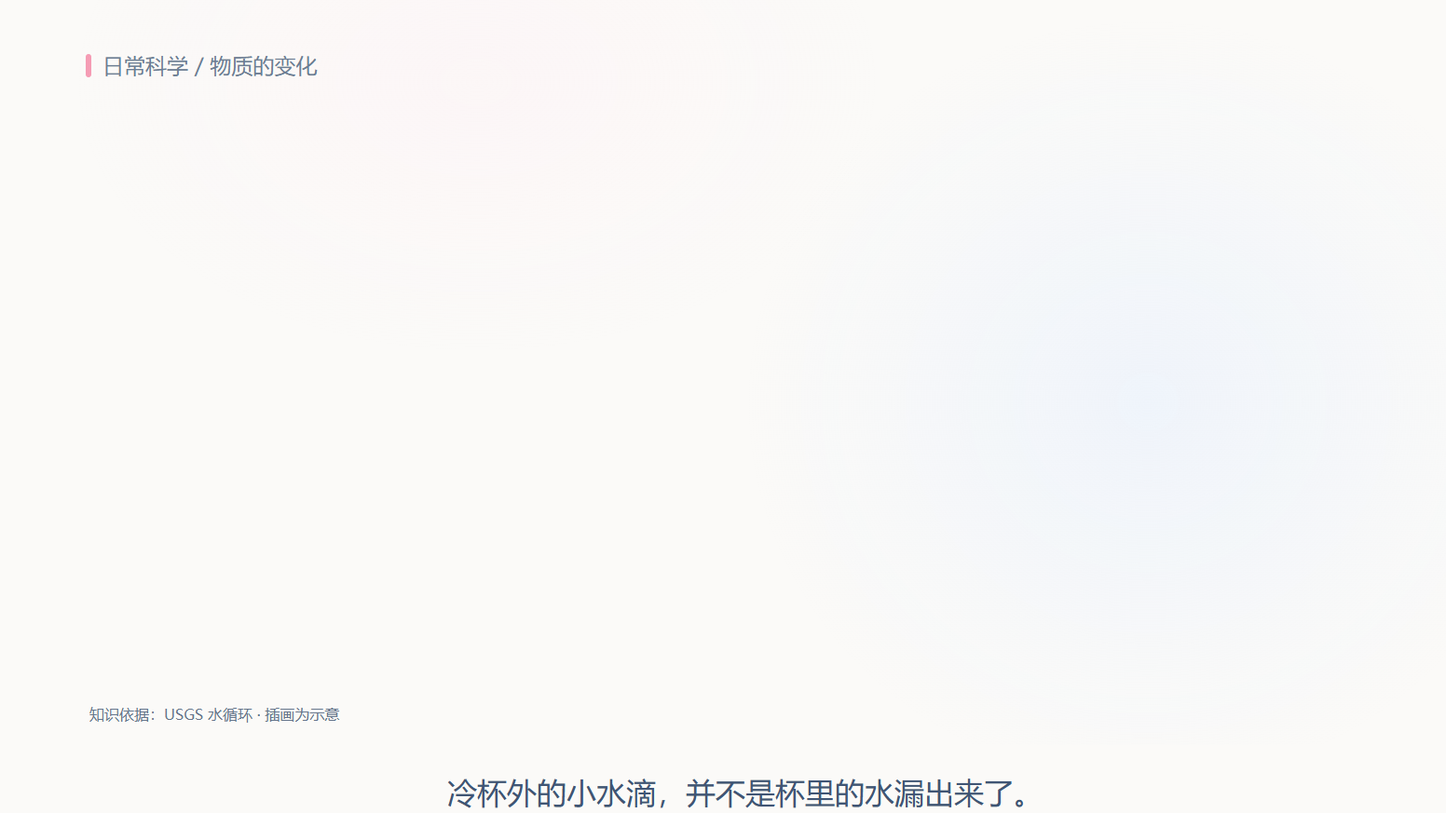
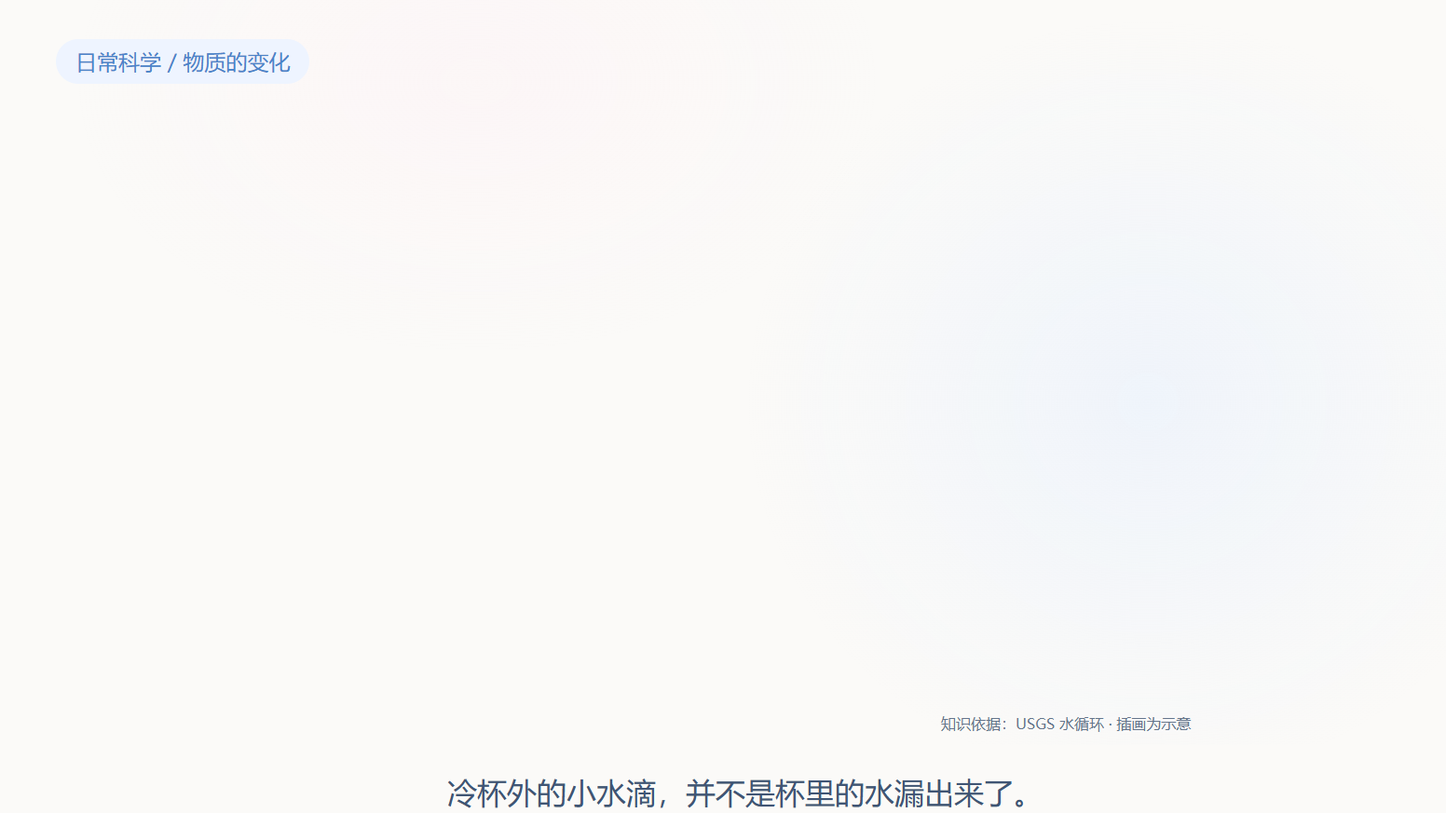
docs: define visual reconstruction workflow and anchor evidence

Changed region(s): [[0.6495, 0.866, 0.8351, 0.8969], [0.0619, 0.866, 0.2474, 0.8969], [0.0309, 0.0619, 0.2165, 0.0928]]

diff --git a/html_engine/experiments/soft-science-01/theme.css b/html_engine/experiments/soft-science-01/theme.css
@@ -1,1 +1,1 @@
-:root{--ink:#405574;--body:#52647c;--pink:#dc527d;--blue:#4b83c9;--paper:#fbfaf8;--pink-soft:#fff0f4;--blue-soft:#eef4ff;--green:#4b987d;--green-soft:#edf8f2}*{box-sizing:border-box}body{margin:0;background:#e9edf3;color:var(--ink);font-family:'Microsoft YaHei',sans-serif}main{max-width:1648px;margin:20px auto;padding:0 24px}header{display:flex;gap:20px;align-items:center;margin-bottom:15px}header strong{font-size:21px;margin-right:auto}a{color:var(--blue)}.frame{width:100%;aspect-ratio:16/9;position:relative;overflow:hidden;background:var(--paper);box-shadow:0 12px 38px #40557412}#stage{position:absolute;width:1600px;height:900px;transform-origin:0 0;background:var(--paper)}#content{position:absolute;width:1600px;height:800px;overflow:hidden;background:radial-gradient(ellipse 430px 410px at 77% 54%,#e5effd8a,transparent),radial-gradient(ellipse 430px 290px at 32% 11%,#ffeef454,transparent),var(--paper)}.eyebrow{position:absolute;left:92px;top:55px;display:flex;align-items:center;gap:12px;font-size:23px;color:#6c7d94}.eyebrow:before{content:'';width:6px;height:25px;background:#f59cb4;border-radius:3px}h1{position:absolute;left:90px;top:100px;font-size:64px;line-height:1.22;letter-spacing:-1.5px;margin:0;width:1420px;color:var(--ink)}h1 em{color:var(--pink);font-style:normal}.lead{position:absolute;left:96px;top:202px;font-size:28px;line-height:1.5;color:var(--body)}.pill{display:inline-flex;align-items:center;gap:10px;padding:9px 20px;border-radius:100px;color:var(--pink);background:var(--pink-soft);font-size:25px;line-height:1.25;font-weight:700}.steps{position:absolute;left:96px;top:298px;width:710px;display:grid;gap:30px}.step{display:flex;align-items:flex-start;gap:21px}.step-number{display:flex;align-items:center;justify-content:center;width:55px;height:55px;flex:none;background:var(--blue-soft);border-radius:18px;color:var(--blue);font-size:25px;font-weight:700}.step:nth-child(2) .step-number{color:var(--pink);background:var(--pink-soft)}.step:nth-child(3) .step-number{color:var(--green);background:var(--green-soft)}.step h2{font-size:32px;line-height:1.35;margin:0 0 6px}.step p{font-size:25px;line-height:1.55;margin:0;color:var(--body)}.phase{position:absolute;left:96px;top:635px;display:flex;align-items:center;gap:27px;font-size:31px;font-weight:700}.phase .pill{font-size:29px;color:var(--blue);background:var(--blue-soft);padding:11px 25px}.phase .pill:last-child{color:var(--green);background:var(--green-soft)}.phase svg{width:115px;height:35px;color:var(--blue)}.cup{position:absolute;left:710px;top:145px;width:730px;height:610px;object-fit:contain}.annotation{position:absolute;left:0;top:0;width:1600px;height:800px;pointer-events:none}.annotation path,.annotation circle{fill:none;stroke:var(--blue);stroke-width:2.7;stroke-linecap:round;stroke-linejoin:round}.callout{position:absolute;left:1310px;top:391px;width:208px;color:var(--blue);font-size:25px;line-height:1.45}.callout small{display:block;font-size:20px;color:var(--body);margin-top:5px}.conclusion{position:absolute;left:826px;top:710px;width:676px;text-align:center;font-size:27px;color:var(--ink)}.conclusion strong{display:inline-block;color:var(--pink);background:var(--pink-soft);padding:12px 25px;border-radius:100px}.source{position:absolute;left:96px;top:756px;font-size:16px;color:#65758b}.subtitle{position:absolute;left:0;top:800px;width:1600px;height:100px;padding:10px 80px;display:flex;align-items:center;justify-content:center;text-align:center;font-size:32px;line-height:1.25;background:var(--paper);color:var(--ink)}.controls{display:flex;flex-wrap:wrap;gap:12px;align-items:center;margin-top:15px}.controls button{font:inherit;padding:9px 15px;border:1px solid #c8d5e5;border-radius:8px;color:var(--ink);background:white;cursor:pointer}.controls button:disabled{opacity:.4}.controls input[type=range]{accent-color:var(--pink)}#seek{flex:1;min-width:220px}#font{width:100px}.status{font-size:14px;color:#64758e;line-height:1.6}button:focus-visible,input:focus-visible{outline:3px solid var(--blue);outline-offset:3px}@media(max-width:800px){main{padding:0 10px}header{flex-wrap:wrap}}
+:root{--ink:#405574;--body:#52647c;--pink:#dc527d;--blue:#4b83c9;--paper:#fbfaf8;--pink-soft:#fff0f4;--blue-soft:#eef4ff;--green:#4b987d;--green-soft:#edf8f2}*{box-sizing:border-box}body{margin:0;background:#e9edf3;color:var(--ink);font-family:'Microsoft YaHei',sans-serif}main{max-width:1648px;margin:20px auto;padding:0 24px}header{display:flex;gap:20px;align-items:center;margin-bottom:15px}header strong{font-size:21px;margin-right:auto}a{color:var(--blue)}.frame{width:100%;aspect-ratio:16/9;position:relative;overflow:hidden;background:var(--paper);box-shadow:0 12px 38px #40557412}#stage{position:absolute;width:1600px;height:900px;transform-origin:0 0;background:var(--paper)}#content{position:absolute;width:1600px;height:800px;overflow:hidden;background:radial-gradient(ellipse 430px 410px at 77% 54%,#e5effd8a,transparent),radial-gradient(ellipse 430px 290px at 32% 11%,#ffeef454,transparent),var(--paper)}.eyebrow{position:absolute;left:60px;top:42px;display:flex;align-items:center;gap:12px;font-size:23px;color:var(--blue);background:var(--blue-soft);padding:9px 21px;border-radius:100px}h1{position:absolute;left:60px;top:104px;font-size:70px;line-height:1.22;letter-spacing:-1.5px;margin:0;width:1420px;color:var(--ink)}h1 em{color:var(--pink);font-style:normal}.lead{position:absolute;left:60px;top:205px;font-size:28px;line-height:1.5;color:var(--body)}.pill{display:inline-flex;align-items:center;gap:10px;padding:9px 20px;border-radius:100px;color:var(--pink);background:var(--pink-soft);font-size:25px;line-height:1.25;font-weight:700}.steps{position:absolute;left:60px;top:292px;width:740px;display:grid;gap:36px}.step{display:flex;align-items:flex-start;gap:25px}.step-number{display:flex;align-items:center;justify-content:center;width:84px;height:84px;flex:none;background:var(--blue-soft);border-radius:22px;color:var(--blue);font-size:33px;font-weight:700}.step:nth-child(2) .step-number{color:var(--pink);background:var(--pink-soft)}.step:nth-child(3) .step-number{color:var(--green);background:var(--green-soft)}.step h2{font-size:33px;line-height:1.35;margin:0 0 6px}.step p{font-size:25px;line-height:1.55;margin:0;color:var(--body)}.phase{position:absolute;left:60px;top:696px;display:flex;align-items:center;gap:27px;font-size:31px;font-weight:700}.phase .pill{font-size:31px;color:var(--blue);background:var(--blue-soft);padding:13px 36px}.phase .pill:last-child{color:var(--green);background:var(--green-soft)}.phase svg{width:115px;height:35px;color:var(--blue)}.cup{position:absolute;left:715px;top:75px;width:760px;height:680px;object-fit:contain}.annotation{position:absolute;left:0;top:0;width:1600px;height:800px;pointer-events:none}.annotation path,.annotation circle{fill:none;stroke:var(--blue);stroke-width:2.7;stroke-linecap:round;stroke-linejoin:round}.callout{position:absolute;left:1360px;top:352px;width:210px;color:var(--blue);font-size:25px;line-height:1.45;font-weight:700}.callout small{display:block;font-weight:400;font-size:20px;color:var(--body);margin-top:5px}.conclusion{position:absolute;left:872px;top:691px;width:470px;text-align:center;font-size:27px;color:var(--ink)}.conclusion strong{display:inline-block;color:var(--pink);background:var(--pink-soft);padding:12px 25px;border-radius:100px}.source{position:absolute;left:1010px;top:766px;font-size:16px;color:#65758b}.subtitle{position:absolute;left:0;top:800px;width:1600px;height:100px;padding:10px 80px;display:flex;align-items:center;justify-content:center;text-align:center;font-size:32px;line-height:1.25;background:var(--paper);color:var(--ink)}.controls{display:flex;flex-wrap:wrap;gap:12px;align-items:center;margin-top:15px}.controls button{font:inherit;padding:9px 15px;border:1px solid #c8d5e5;border-radius:8px;color:var(--ink);background:white;cursor:pointer}.controls button:disabled{opacity:.4}.controls input[type=range]{accent-color:var(--pink)}#seek{flex:1;min-width:220px}#font{width:100px}.status{font-size:14px;color:#64758e;line-height:1.6}button:focus-visible,input:focus-visible{outline:3px solid var(--blue);outline-offset:3px}@media(max-width:800px){main{padding:0 10px}header{flex-wrap:wrap}}

diff --git a/html_engine/experiments/soft-science-01/index.html b/html_engine/experiments/soft-science-01/index.html
@@ -1,1 +1,1 @@
-<!doctype html><html lang="zh-CN"><meta charset="utf-8"><meta name="viewport" content="width=device-width,initial-scale=1"><title>柔和彩色科普 · 冷杯水滴</title><link rel="stylesheet" href="theme.css?v=1"><main><header><strong>柔和彩色科普 · 完整解释页</strong><a href="comparison.html">设计与实际对照</a><a href="atlas.html">效果参考图板</a><a href="README.md">制作记录</a></header><div class="frame" id="frame"><div id="stage"><div id="content"><div class="eyebrow">日常科学 / 物质的变化</div><h1 id="title">冷杯外的<span><em>水滴</em>，从哪里来？</span></h1><div class="lead" id="lead">看懂一个生活现象，认识一种物质变化。</div><div class="steps"><section class="step" id="step-0"><div class="step-number">01</div><div><h2>空气里有水蒸气</h2><p>通常看不见，但它一直在我们周围。</p></div></section><section class="step" id="step-1"><div class="step-number">02</div><div><h2>遇到更冷的杯壁</h2><p>水蒸气在冷表面冷却。</p></div></section><section class="step" id="step-2"><div class="step-number">03</div><div><h2>变成液态小水滴</h2><p>这个变化过程，叫作凝结。</p></div></section></div><div class="phase" id="phase"><span class="pill">气态</span><svg viewBox="0 0 115 35" aria-label="变为"><path id="phase-arrow" d="M5 18H105M92 6L105 18 92 30" fill="none" stroke="currentColor" stroke-width="3" stroke-linecap="round" stroke-linejoin="round"/></svg><span class="pill">液态</span></div><img class="cup" id="cup" src="../../../docs/styles/science-explainer/experiments/hybrid-01/condensation-alpha.png" alt="外壁有凝结水滴的冰水杯"><svg class="annotation" viewBox="0 0 1600 800" aria-hidden="true"><circle id="target" cx="1255" cy="485" r="25"/><path id="leader" d="M1280 482 L1296 428"/></svg><div class="callout" id="callout">杯外的小水滴<small>来自空气中的水蒸气</small></div><div class="conclusion" id="conclusion"><strong>不是杯里的水漏出来</strong></div><div class="source">知识依据：USGS 水循环 · 插画为示意</div></div><div class="subtitle" id="subtitle"></div></div></div><div class="controls"><button id="play" disabled>播放 / 重播</button><button id="pause">暂停</button><button id="reset" disabled>回到开场</button><input id="seek" type="range" min="0" max="18000" value="18000" disabled aria-label="讲解时间"><output id="clock">准备中</output><label>字幕字号 <input id="font" type="range" min="20" max="44" value="32"></label><output id="font-value">32 px</output><label><input id="reduce" type="checkbox">减少装饰运动</label></div><p class="status" id="status">正在准备字体与插画…</p></main><script src="definition.js"></script><script src="player.js"></script></html>
+<!doctype html><html lang="zh-CN"><meta charset="utf-8"><meta name="viewport" content="width=device-width,initial-scale=1"><title>柔和彩色科普 · 冷杯水滴</title><link rel="stylesheet" href="theme.css?v=alignment-2"><main><header><strong>柔和彩色科普 · 完整解释页</strong><a href="comparison.html">设计与实际对照</a><a href="atlas.html">效果参考图板</a><a href="README.md">制作记录</a></header><div class="frame" id="frame"><div id="stage"><div id="content"><div class="eyebrow">日常科学 / 物质的变化</div><h1 id="title">冷杯外的<span><em>水滴</em>，从哪里来？</span></h1><div class="lead" id="lead">看懂一个生活现象，认识一种物质变化。</div><div class="steps"><section class="step" id="step-0"><div class="step-number">01</div><div><h2>空气里有水蒸气</h2><p>通常看不见，但它一直在我们周围。</p></div></section><section class="step" id="step-1"><div class="step-number">02</div><div><h2>遇到更冷的杯壁</h2><p>水蒸气在冷表面冷却。</p></div></section><section class="step" id="step-2"><div class="step-number">03</div><div><h2>变成液态小水滴</h2><p>这个变化过程，叫作凝结。</p></div></section></div><div class="phase" id="phase"><span class="pill">气态</span><svg viewBox="0 0 115 35" aria-label="变为"><path id="phase-arrow" d="M5 18H105M92 6L105 18 92 30" fill="none" stroke="currentColor" stroke-width="3" stroke-linecap="round" stroke-linejoin="round"/></svg><span class="pill">液态</span></div><img class="cup" id="cup" src="../../../docs/styles/science-explainer/experiments/hybrid-01/condensation-alpha.png" alt="外壁有凝结水滴的冰水杯"><svg class="annotation" viewBox="0 0 1600 800" aria-hidden="true"><circle id="target" cx="1255" cy="485" r="25"/><path id="leader" d="M1280 482 L1296 428"/></svg><div class="callout" id="callout">杯外的小水滴<small>来自空气中的水蒸气</small></div><div class="conclusion" id="conclusion"><strong>不是杯里的水漏出来</strong></div><div class="source">知识依据：USGS 水循环 · 插画为示意</div></div><div class="subtitle" id="subtitle"></div></div></div><div class="controls"><button id="play" disabled>播放 / 重播</button><button id="pause">暂停</button><button id="reset" disabled>回到开场</button><input id="seek" type="range" min="0" max="18000" value="18000" disabled aria-label="讲解时间"><output id="clock">准备中</output><label>字幕字号 <input id="font" type="range" min="20" max="44" value="32"></label><output id="font-value">32 px</output><label><input id="reduce" type="checkbox">减少装饰运动</label></div><p class="status" id="status">正在准备字体与插画…</p></main><script src="definition.js?v=alignment-2"></script><script src="player.js?v=alignment-2"></script></html>

diff --git a/html_engine/experiments/soft-science-01/player.js b/html_engine/experiments/soft-science-01/player.js
@@ -2,12 +2,30 @@
   'use strict';
   const $=id=>document.getElementById(id),d=ScienceDefinition,smooth=x=>{x=Math.max(0,Math.min(1,x));return x*x*(3-2*x)},q=(t,start,length)=>smooth((t-start)/length);
   let ready=false,time=0,playing=false,last=0,raf=0;
+  const geometry=d.geometry,cup=$('cup'),label=$('callout');
+  Object.assign(cup.style,{left:geometry.cupFrame.x+'px',top:geometry.cupFrame.y+'px',width:geometry.cupFrame.width+'px',height:geometry.cupFrame.height+'px'});
+  Object.assign(label.style,{left:geometry.callout.x+'px',top:geometry.callout.y+'px',width:geometry.callout.width+'px'});
+  let anchor={x:0,y:0};
+  function updateAnnotation(){
+    const frame=geometry.cupFrame,natural=geometry.assetNaturalSize;
+    const scale=Math.min(frame.width/natural.width,frame.height/natural.height);
+    const offsetX=(frame.width-natural.width*scale)/2,offsetY=(frame.height-natural.height*scale)/2;
+    const reveal=q(time,500,1300),entryOffset=$('reduce').checked?0:(1-reveal)*24;
+    anchor={x:frame.x+offsetX+geometry.dropletAnchor.assetX*scale,y:frame.y+offsetY+geometry.dropletAnchor.assetY*scale+entryOffset};
+    const radius=geometry.dropletAnchor.radius;
+    $('target').setAttribute('cx',anchor.x);$('target').setAttribute('cy',anchor.y);$('target').setAttribute('r',radius);
+    const endX=geometry.callout.x-14,endY=geometry.callout.y+22;
+    $('leader').setAttribute('d',`M${anchor.x+radius} ${anchor.y} L${endX-42} ${endY} H${endX}`);
+  }
+  updateAnnotation();
   const paths=['target','leader','phase-arrow'].map(id=>{const e=$(id),length=e.getTotalLength();e.style.strokeDasharray=length;return {e,length}});
   new ResizeObserver(()=>$('stage').style.transform=`scale($('frame').clientWidth/1600)`).observe($('frame'));
   function font(value){const n=Number(value);if(!Number.isInteger(n)||n<20||n>44)throw new RangeError('字幕字号范围20—44px');const c=document.createElement('canvas').getContext('2d');c.font=`${n}px Microsoft YaHei`;if(d.beats.some(b=>c.measureText(b.text).width>1440))throw new Error('字幕过长，需缩小或拆分');$('subtitle').style.fontSize=n+'px';$('font').value=n;$('font-value').textContent=n+' px'}
   function renderAt(ms){if(!ready)throw new Error('Resources not ready');if(!Number.isFinite(ms)||ms<0||ms>d.durationMs)throw new RangeError('Invalid scene time');time=ms;const reduced=$('reduce').checked;
     const show=(id,start,length,offset=0)=>{const x=q(ms,start,length);$(id).style.opacity=x;$(id).style.transform=`translateY(${reduced?0:(1-x)*offset}px)`};
     show('title',0,850,12);show('lead',300,850,8);show('cup',500,1300,24);[2000,5000,8500].forEach((s,i)=>show('step-'+i,s,850,14));show('phase',10500,850,8);show('callout',12500,650);show('conclusion',14000,850,8);
+    updateAnnotation();
+    for(const item of paths){const length=item.e.getTotalLength();item.length=length;item.e.style.strokeDasharray=length;}
     paths.forEach(({e,length},i)=>{const p=q(ms,i===2?10800:12000+(i*300),i===2?1000:1200);e.style.strokeDashoffset=length*(1-p);e.style.opacity=p>0?1:0});
     $('subtitle').textContent=d.beats.find(b=>ms>=b.start&&ms<b.end)?.text||d.beats.at(-1).text;$('seek').value=ms;$('clock').textContent=`${(ms/1000).toFixed(1)} / 18 s`;return ms;
   }
@@ -15,6 +33,6 @@
   function tick(now){if(!playing)return;const next=Math.min(d.durationMs,time+Math.max(0,now-last));last=Math.max(last,now);renderAt(next);if(next>=d.durationMs){pause();return}raf=requestAnimationFrame(tick)}
   function play(){if(!ready)return;pause();renderAt(0);playing=true;last=performance.now();raf=requestAnimationFrame(tick)}
   $('play').onclick=play;$('pause').onclick=pause;$('reset').onclick=()=>{pause();renderAt(0)};$('seek').oninput=()=>{pause();renderAt(Number($('seek').value))};$('reduce').onchange=()=>renderAt(time);$('font').oninput=()=>{try{font($('font').value)}catch(e){$('status').textContent=e.message;$('font').value=parseInt($('subtitle').style.fontSize)}};document.addEventListener('visibilitychange',()=>{if(document.hidden)pause()});
-  window.scienceScene={renderAt,pause,play,setSubtitleFont:font,get time(){return time},get playing(){return playing}};
+  window.scienceScene={renderAt,pause,play,setSubtitleFont:font,get time(){return time},get playing(){return playing},get anchor(){return {...anchor}}};
   window.scienceReady=(async()=>{await document.fonts.ready;await $('cup').decode();font(32);ready=true;$('play').disabled=$('reset').disabled=$('seek').disabled=false;renderAt(d.durationMs);$('status').textContent='准备完成 · 18秒无声预演 · 一张复用插画，其余为CSS/SVG可控对象';})();scienceReady.catch(e=>$('status').textContent='准备失败：'+e.message);
 })();

diff --git a/html_engine/experiments/soft-science-01/definition.js b/html_engine/experiments/soft-science-01/definition.js
@@ -1,1 +1,1 @@
-window.ScienceDefinition={"format": "hps.visual-study", "version": "0.1.0", "style": "science-soft-0.2-exploration", "canvas": {"width": 1600, "height": 900, "contentBottom": 800, "subtitleHeight": 100}, "durationMs": 18000, "title": "冷杯外的水滴，从哪里来？", "template": "single-object-explanation-draft", "objects": [{"id": "title", "backend": "CSS", "startMs": 0}, {"id": "cup", "backend": "image", "asset": "../../../docs/styles/science-explainer/experiments/hybrid-01/condensation-alpha.png", "startMs": 500}, {"id": "steps", "backend": "CSS+SVG", "appearMs": [2000, 5000, 8500]}, {"id": "phase", "backend": "CSS+SVG", "startMs": 10500}, {"id": "callout", "backend": "SVG+CSS", "startMs": 12000}, {"id": "conclusion", "backend": "CSS", "startMs": 14000}], "beats": [{"start": 0, "end": 3500, "text": "冷杯外的小水滴，并不是杯里的水漏出来了。"}, {"start": 3500, "end": 7000, "text": "空气中含有通常看不见的水蒸气。"}, {"start": 7000, "end": 10500, "text": "水蒸气遇到冷杯表面，冷却并凝结成小水滴。"}, {"start": 10500, "end": 14000, "text": "从气态变成液态，这个过程叫凝结。"}, {"start": 14000, "end": 18001, "text": "所以，冷杯外的水滴来自空气中的水蒸气。"}], "assetBudget": {"imageSubjects": 1, "newAssetGenerations": 0}, "status": "design exploration; visual review pending"};
+window.ScienceDefinition={"format": "hps.visual-study", "version": "0.1.0", "style": "science-soft-0.2-exploration", "canvas": {"width": 1600, "height": 900, "contentBottom": 800, "subtitleHeight": 100}, "durationMs": 18000, "title": "冷杯外的水滴，从哪里来？", "template": "single-object-explanation-draft", "objects": [{"id": "title", "backend": "CSS", "startMs": 0}, {"id": "cup", "backend": "image", "asset": "../../../docs/styles/science-explainer/experiments/hybrid-01/condensation-alpha.png", "startMs": 500}, {"id": "steps", "backend": "CSS+SVG", "appearMs": [2000, 5000, 8500]}, {"id": "phase", "backend": "CSS+SVG", "startMs": 10500}, {"id": "callout", "backend": "SVG+CSS", "startMs": 12000}, {"id": "conclusion", "backend": "CSS", "startMs": 14000}], "beats": [{"start": 0, "end": 3500, "text": "冷杯外的小水滴，并不是杯里的水漏出来了。"}, {"start": 3500, "end": 7000, "text": "空气中含有通常看不见的水蒸气。"}, {"start": 7000, "end": 10500, "text": "水蒸气遇到冷杯表面，冷却并凝结成小水滴。"}, {"start": 10500, "end": 14000, "text": "从气态变成液态，这个过程叫凝结。"}, {"start": 14000, "end": 18001, "text": "所以，冷杯外的水滴来自空气中的水蒸气。"}], "assetBudget": {"imageSubjects": 1, "newAssetGenerations": 0}, "status": "revision 2 alignment correction; user visual changes requested", "revision": 2, "geometry": {"cupFrame": {"x": 715, "y": 75, "width": 760, "height": 680}, "assetNaturalSize": {"width": 1254, "height": 1254}, "assetOpaqueBounds": {"x": 276, "y": 128, "width": 716, "height": 953, "alphaThreshold": 200}, "dropletAnchor": {"assetX": 947, "assetY": 600, "radius": 26}, "callout": {"x": 1360, "y": 352, "width": 210}, "binding": "anchor in original image pixels, mapped through contain fit and current scene transform"}};

diff --git a/docs/contracts/html-presentation/framework/11-visual-reconstruction.md b/docs/contracts/html-presentation/framework/11-visual-reconstruction.md
@@ -1,0 +1,91 @@
+# 设计到HTML的视觉还原协议
+
+契约0.9.0补充；2026-10-07；细化HPS-026—030、033—037。目标是建立稳定的还原方法，不能以逐页手工修补替代规则。适用已准入的代码主导、少量图片辅助风格。
+
+## 1. 三种一致性必须分开
+
+| 一致性 | 定义 | 验收 |
+| --- | --- | --- |
+| 语义一致 | 同一对象、文字、数值、关系、讲解目标及出现顺序 | ID和内容对应，没有丢掉图标/解释/过程对象 |
+| 视觉一致 | 构图、可见尺寸、位置、字体、层级、线条、颜色及素材接近已批准目标 | 同尺寸关键帧和局部对照，不只检查无溢出 |
+| 像素一致 | 同一像素颜色与抗锯齿结果 | 只用于同一运行版本、同字体、同资源、同环境的确定性检查 |
+
+生图模型可能重绘字体、材质、插画细节；仅凭一张生成图无法可靠恢复它使用的字体、矢量路径和原始分层。不能承诺任意生图逐像素转换成可编辑HTML。当前规则科普风可以追求高视觉一致性。像素一致不应替代语义或审美判断。
+
+## 2. 当前链路的具体缺口
+
+设计图包含由模型重新解释的插画和文字；运行页使用原资产和本机字体。两者虽共享内容，却没有共用精确布局与字阶定义。插画外框含透明留白，圈注又用独立页面坐标；改变资产尺寸后，关系线不自动跟随。结果出现主体大小、编号形态、标注位置和字形差异。
+
+症结不能归结为“HTML天生不好看”或单一风格失败。需要把AI提出的视觉方案收敛为明确可执行的设计，再据此渲染与验收。
+
+## 3. 一份视觉定义，贯穿生成和渲染
+
+下表为需要补齐的设计记录，不是已上线的新Schema。实现时使用专用版本，不偷偷加入既有E1/E2格式。
+
+| 定义 | 最少记录 | 作用 |
+| --- | --- | --- |
+| 画布 | 逻辑宽高、比例、内容区、字幕区 | 生成参考、页面与导出统一坐标 |
+| 布局 | 区域矩形、相对关系、对齐基线、净空、文字容量 | 保留构图，不凭截图重新猜位置 |
+| 字体 | 实际字体资源/版本、字重、字号、行高、字距、换行规则 | 避免同字号但字形/宽度差异 |
+| 样式 | 命名颜色、圆角、描边、阴影、渐变、效果变体ID | 对应真实效果图板中的可执行样式 |
+| 资产 | 固定文件/哈希、自然尺寸、可见主体边界、缩放方式、锚点 | 保持主体与标注关系，不能只看透明外框 |
+| 对象 | 稳定ID、内容、实现后端、层级、归属关系 | 建立一对一或明确的一对多对应 |
+| 运动 | 初态/终态、进度、时间、变换归属、过程对象 | 静态对上后仍能正确运动 |
+| 验收 | 目标帧、允许差异、对应项、失败原因 | 把美感损失和实现缺项暴露出来 |
+
+区域矩形给出约束与目标位置，并不要求所有页面同布局；新构图可以先探索，批准后才形成受约束模板。
+
+## 4. 改进后的流程
+
+### A. 生成前：给模型可实现的选择
+
+先选择风格白名单和页面任务，确定讲稿、对象清单、关键帧、图片预算。准备实际代码效果图板和布局区域参考：标题区、图文区域、字幕留白、主体数量。效果图板按版本缓存；布局区域参考可由代码绘制，不需要额外生图。
+
+提示词仍明确逐对象实现归属：哪个是可变文字、哪个对应已实现效果、哪个是独立插画。字体/线宽/阴影等必须引用已验证变体；不能只说“好看、精致、科技风”。模型可能不完全遵守，生成输出仍须审查。
+
+有可用资产时先固定它，尽量让设计参考使用该资产。模型如果重绘原资产，必须记录差异；不能把重绘后的玻璃边缘当成原资产可精确命中的锚点。
+
+### B. 生成后：先核对，再冻结设计
+
+生成图是美术提案，不能直接成为可编辑对象的数据源。逐对象核对：内容是否完整，是否新增不可实现效果，是否偷偷改变资产，是否进入字幕区。按图板判断样式是否有对应实现。
+
+发现新的美术表现时，只能选择：在当前范围内实现并补真实效果证据、采用已有明确变体并重新审阅，或退回设计。禁止还原时静默简化、遗漏图标、删掉关键层次，却继续声称原设计的美感已保留。
+
+在这一步将选定构图转录为上表的精确视觉定义，记录人工视觉调整。生成图的坐标是建议，冻结后的视觉定义才是构建依据。固定资源和字体后，渲染一张实际终态：它与设计参考一起审阅，形成“已批准的可执行视觉目标”。
+
+### C. 静态还原：先建立完整终态
+
+先在统一尺寸画布上渲染完整页面，确认真实文字和素材，而后制作动画。共用字体、颜色、组件变体、几何定义，不允许实现者另挑相近值。
+
+图片使用原始比例；可见主体框与透明画布框分别记录。代码可通过contain缩放计算显示位置，无需修改或抠除原图像素。一个杯子可同时有杯壁、水面、底座等锚点；锚点定义为原资产坐标，替换资产后必须重定义。
+
+### D. 动态还原：关系随对象运动
+
+关系线、圈注和标签引用目标ID/锚点；坐标从对象布局及当前变换计算，不重复填写一组容易失效的绝对坐标。对象进入、缩放或镜头变化时，标注必须跟随；文字标签的位置可独立布局，引线将两者连接。
+
+文字/主体/标注可以有不同出现时刻，但共同服从作品时钟。生成终态里没有的过渡对象也要登记，不能在组装时临时补图片。关键帧分别核对初态、讲解中段和终态。
+
+### E. 对照验收：按差异类型处理
+
+同画布尺寸导出设计参考与实际终态，提供并排、半透明叠加或滑动对照。先检查语义，再检查视觉，最后检查运动。
+
+| 检查 | 方法 | 失败处理 |
+| --- | --- | --- |
+| 主体位置/尺寸 | 比较可见边界、视觉中心和布局区域 | 修正几何定义或资产缩放，不改内容凑位置 |
+| 标注关系 | 检查锚点是否命中真实目标、引线是否连接 | 修正锚点定义/变换计算；避免标到空白或另一对象 |
+| 字体/换行 | 核对实际字体、基线、文字宽高和行数 | 固定字体或正式选择回退，重新审阅 |
+| 标签/卡片/图标 | 对应效果ID、圆角、笔画、阴影、色彩 | 使用正确变体；缺项先补实现，不静默降级 |
+| 留白/层级 | 完整页面与小屏观看 | 修改布局配方，并记录审阅后的新目标 |
+| 动画 | 指定时间取帧和实际播放 | 检查对象归属、时间与几何变换 |
+
+几何的初始验收建议：标注中心映射误差≤1逻辑像素；规则图形宽高比遵守定义；文字行数与冻结目标一致。此类技术指标用于定位错误，不等于整体美感合格。整页不设未经证明的“相似度95%”承诺。
+
+## 5. 如何减少工作量
+
+一旦可执行视觉目标通过审阅，保存布局配方、效果变体和内容预算。后续相同任务类型在容量内换内容直接渲染；更换字体、主体比例、关系或超容量内容时重新验收相关部分。复用库和模板承担大部分工作，生图只补少量真正需要的主体。
+
+新效果图板只在版本改变时导出；新设计参考只在探索构图或重大视觉变化时生成。资产和模板均保留固定修订。整个流程避免“每页先任意生图，再临时猜着复刻”。
+
+## 6. 当前实施状态
+
+本次完成方法定义。冷杯实验修订2仅验证了资产坐标锚点映射、画布等比缩放及一组布局校准；它不是完整还原工具。通用视觉定义Schema、自动对应检查、字体打包、叠加对照工具、模板回收和全面视觉门禁仍需实施。下一项工程任务应先实现通用的视觉定义与资产锚点映射，再以不同素材和布局验证，而不是继续单页调CSS。

diff --git a/html_engine/experiments/soft-science-01/README.md b/html_engine/experiments/soft-science-01/README.md
@@ -25,3 +25,9 @@ verify.cjs检查五个关键帧乱序取帧像素一致、播放推进/暂停、
 视觉检查了终态与设计对照：清晰单行标题、三步字阶、主体留白，避免圈注指向冰块。AI设计对杯子有所重绘，实际使用原资产；位置、字体与阴影不逐像素复制。完整视觉待用户审阅，不把工程检查当作模板批准。数据/逻辑页、双对象页后续分别验证，这一页不代表整套课程布局覆盖。
 
 审查：场景与theme分离，定时/资源就绪统一，输入时间/字幕字号有边界，无外部脚本和凭据，保留原实验；未改E1/E2格式或应用服务。当前最多一个图片主体、有限对象，无循环动画或不必要Canvas开销。
+
+## 修订2与方法层面的结论
+
+用户认为位置对应和样式与目标有差异，视觉状态为changes_requested。修订2把杯壁水滴锚点改为原资产坐标(947,600)，按contain缩放映射到场景，跟随杯子进入变换；原点alpha=253，确认不在透明空白。校准字阶、编号与主体比例，并在1600/1000两种窗口宽度核对目标映射及圆形比例。新增数据只属于独立试验格式，不修改E1/E2。原生图效果输入保存在input-effects.png，不把修订后图板当作历史输入。
+
+用户明确任务重心是整体复刻方法，单页校准仅保留为局部证据。后续按[视觉还原协议](../../../docs/contracts/html-presentation/framework/11-visual-reconstruction.md)建设共同视觉定义与对照验收；当前未实现自动从图编译，也未建立通用锚点系统。

diff --git a/docs/contracts/html-presentation/CHANGELOG.md b/docs/contracts/html-presentation/CHANGELOG.md
@@ -1,5 +1,9 @@
 # HTML 演示契约变更记录
 
+## 0.9.0 视觉还原方法补充 — 2026-10-07
+
+新增共同视觉定义、生成提案收敛为可执行视觉目标、固定字体/资产、资产坐标锚点与静态/动态对照方法，细化HPS-026—030、033—037。用户要求解决整体还原流程；冷杯修订2仅为局部映射与比例校准证据，通用工具仍待建设。
+
 ## 0.9.0 柔和彩色科普解释页 — 2026-10-07
 
 按V05范围完成冷杯水滴单主体页：实际CSS/SVG效果图板→受约束设计参考→复用一张插画→18秒解释动画与独立字幕→设计对照和视频检查。限定技术验证通过，视觉审阅待用户完成；不改E1/E2/P01格式。详见[试作记录](../../../html_engine/experiments/soft-science-01/README.md)。

diff --git a/docs/contracts/html-presentation/framework/08-visual-generation-contract.md b/docs/contracts/html-presentation/framework/08-visual-generation-contract.md
@@ -176,3 +176,7 @@ P01 固定 0.4.0 定义及样例、0.5.0 分类目录保留原版本。旧作品
 ## 平面实现与图谱补充
 
 [平面效果契约](09-flat-effects.md)补充HPS-031—034：当前实现建设优先CSS/SVG/Canvas 2D，生成任务引用可执行效果模板及对应图谱，逐项核对设计与实际；不更改本协议的同源设计、资产与阶段验收要求。
+
+## 还原一致性补充
+
+生成提案到可执行视觉目标的收敛、固定字体/资产与布局、标注随对象变换以及视觉对照方法，按[视觉还原协议](11-visual-reconstruction.md)执行。同内容不足以保证同视觉，禁止在还原时静默简化或遗漏原设计效果。
